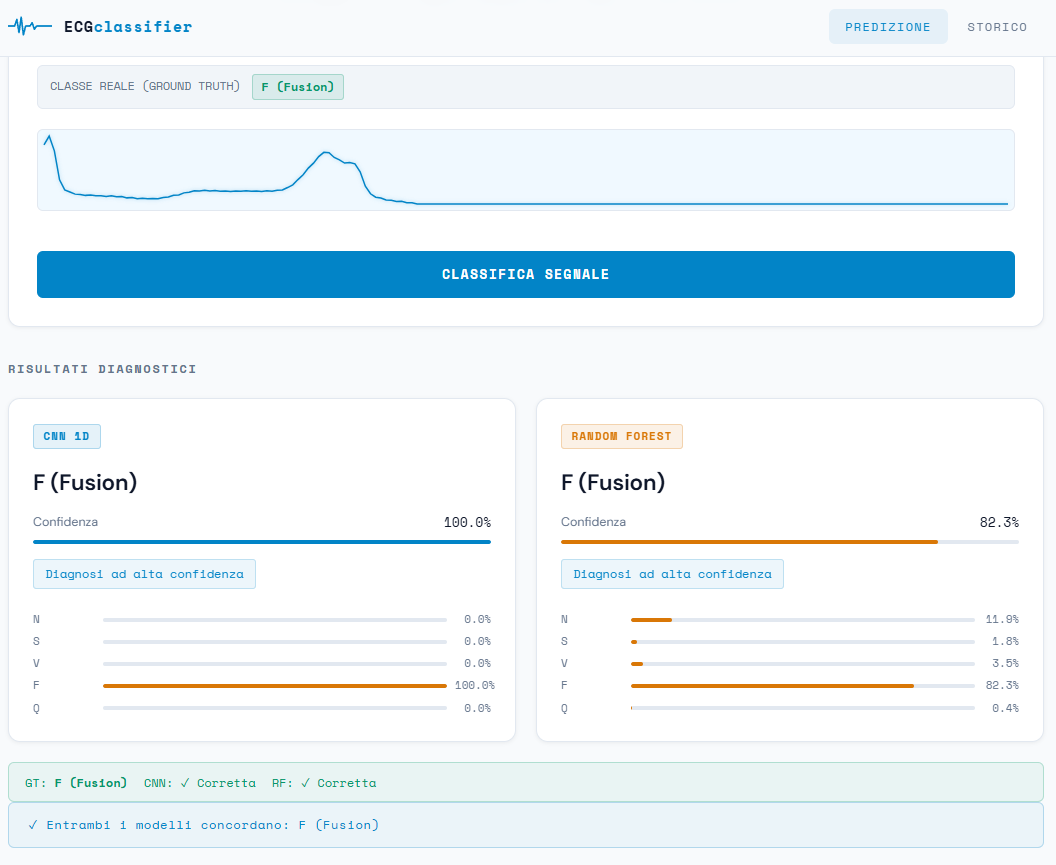
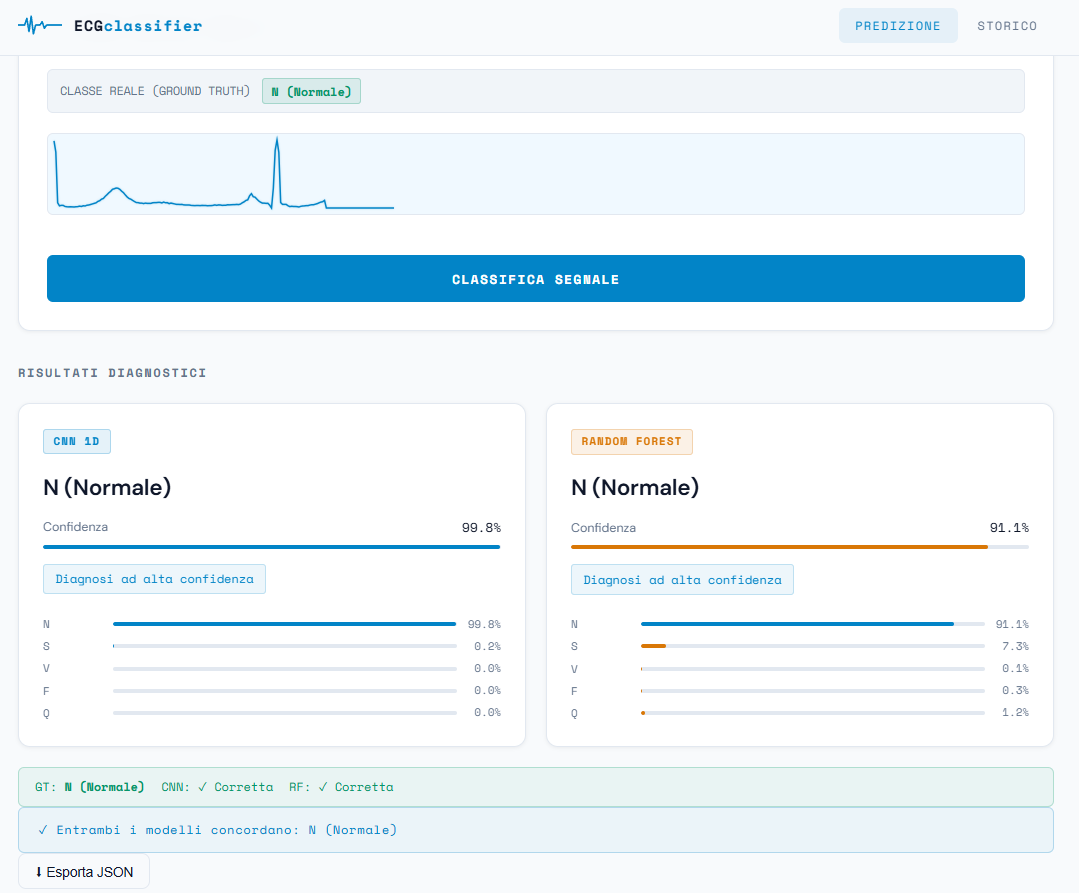
Aggiunta Esporta JSON

diff --git a/frontend/src/app.js b/frontend/src/app.js
@@ -20,9 +20,13 @@ const MIT_LABEL_MAP = {
   '4': 'Q (Non classificabile)',
 };
 
+let lastPredictionResult = null;
+window.lastPredictionResult = null; // esponi globalmente
+
 /* ── Stato ground truth corrente ─────────────────────────────────────────── */
 // Stringa o null — viene passato all'API e usato nel banner risultati
 let currentGroundTruth = null;
+
 
 function setGroundTruth(value) {
   // Normalizza: se è un numero MIT-BIH (es. "2") → stringa leggibile
@@ -246,6 +250,13 @@ function setLoading(on) {
 
 /* ── Render results ──────────────────────────────────────────────────────── */
 function renderResults(data, groundTruth) {
+  lastPredictionResult = {
+    timestamp: new Date().toISOString(),
+    ground_truth: groundTruth || null,
+    cnn: data.cnn,
+    rf: data.rf,
+  };
+  window.lastPredictionResult = lastPredictionResult;
   document.getElementById('results-section').classList.remove('hidden');
   renderModel('cnn', data.cnn);
   renderModel('rf',  data.rf);
@@ -357,3 +368,15 @@ async function loadHistory() {
     list.innerHTML = `<div class="empty-state">Errore nel caricamento: ${err.message}</div>`;
   }
 }
+
+document.getElementById('btn-export-json').onclick = function() {
+  if (!window.lastPredictionResult) return;
+  const json = JSON.stringify(window.lastPredictionResult, null, 2);
+  const ts   = new Date().toISOString().replace(/[:.]/g, '-');
+  const a    = document.createElement('a');
+  a.href     = 'data:application/json;charset=utf-8,' + encodeURIComponent(json);
+  a.download = `ecg-prediction-${ts}.json`;
+  document.body.appendChild(a);
+  a.click();
+  document.body.removeChild(a);
+};

diff --git a/frontend/src/style.css b/frontend/src/style.css
@@ -310,6 +310,19 @@ body {
 }
 .btn-outline:hover { border-color: var(--accent); color: var(--accent); }
 
+.btn-secondary {
+  background: var(--surface);
+  border: 1px solid var(--border);
+  color: var(--text);
+  padding: 0.5rem 1rem;
+  border-radius: 8px;
+  cursor: pointer;
+  font-size: 0.85rem;
+}
+.btn-secondary:hover {
+  border-color: var(--accent);
+}
+
 /* ── Loader dots ─────────────────────────────────────────────────────────── */
 .btn-loader { display: inline-flex; gap: 4px; align-items: center; }
 .dot {

diff --git a/frontend/src/index.html b/frontend/src/index.html
@@ -119,6 +119,7 @@
 
         <div class="gt-result-banner hidden" id="gt-result-banner"></div>
         <div class="agreement-banner" id="agreement-banner"></div>
+        <button id="btn-export-json" class="btn-secondary">⬇ Esporta JSON</button>
       </section>
 
     </div>

diff --git a/README.md b/README.md
@@ -236,9 +236,9 @@ Output: distribuzione di probabilita sulle 5 classi
 
 Media, skewness e kurtosis contribuiscono a oltre il 65% della capacita discriminativa (Gini importance), ma soffrono di elevata sovrapposizione distributiva tra le classi N, S e V — limite strutturale che il modello CNN supera operando localmente sul segnale.
 
-### 6.3 Stato di affidabilita
+### 6.3 Stato di affidabilità
 
-Entrambi i modelli espongono uno **stato di affidabilita** basato su soglia fissa:
+Entrambi i modelli espongono uno **stato di affidabilità** basato su soglia fissa:
 
 - **Confidenza >= 0.60** → `"Diagnosi ad alta confidenza"`
 - **Confidenza < 0.60** → `"Bassa confidenza (Revisione clinica raccomandata)"`
@@ -380,7 +380,9 @@ Il sistema supporta tre modalità di caricamento del segnale ECG:
 
 ### 8.2 Risultati diagnostici
 
-Dopo la classificazione, l'interfaccia mostra in parallelo l'output di CNN 1D e Random Forest: diagnosi, confidenza con barra grafica, distribuzione di probabilità sulle 5 classi e badge di affidabilità. Un banner segnala l'accordo o il disaccordo tra i due modelli; se il ground truth è disponibile, un secondo banner confronta le predizioni con la classe reale.
+Dopo la classificazione, l'interfaccia mostra in parallelo l'output di CNN 1D e Random Forest: diagnosi, confidenza con barra grafica, distribuzione di probabilità sulle 5 classi e badge di affidabilità. Un banner segnala l'accordo o il disaccordo tra i due modelli; se il ground truth è disponibile, un secondo banner confronta le predizioni con la classe reale. Il pulsante 
+
+**Esporta JSON** consente di scaricare il risultato completo (timestamp, ground truth, output CNN e RF con distribuzione di probabilità) in formato strutturato, pronto per l'integrazione con sistemi EHR o pipeline di analisi esterne.
 
 ![Esempio predizione](docs/esempio-predizione.png)
 
